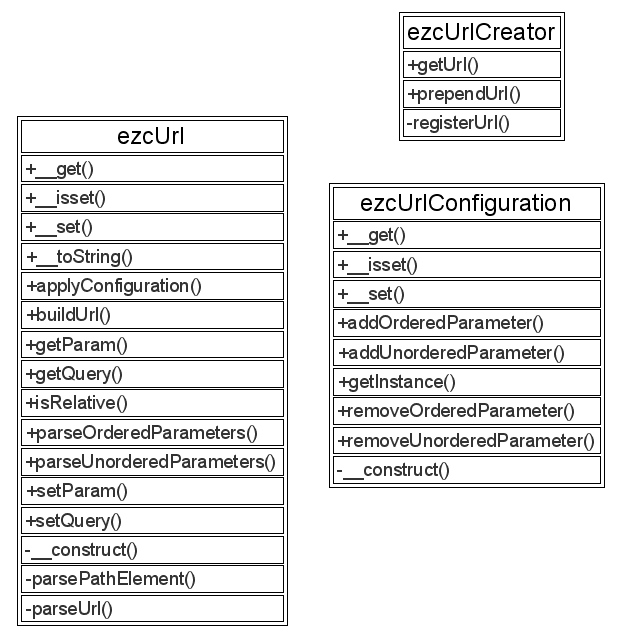
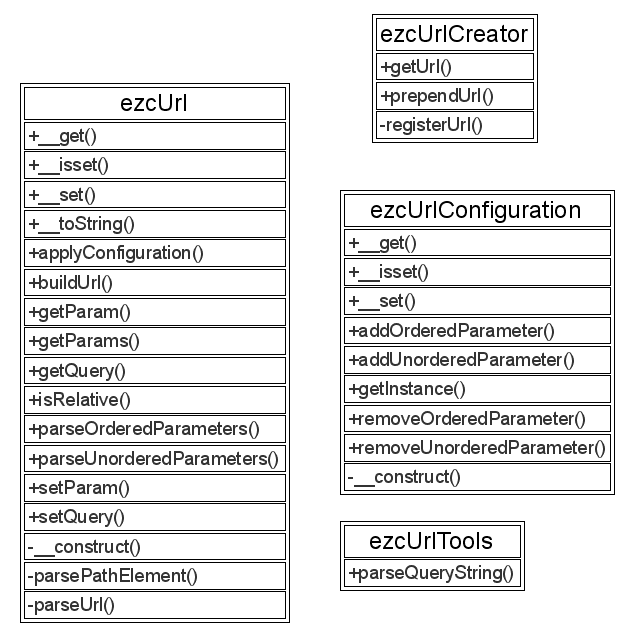
- Fixed issue #11277: The dots in the query string parameter names are not   converted to underscores.
git-svn-id: http://svn.ez.no/svn/ezcomponents/trunk@5939 bc0e7bdc-f0fc-0310-8ff6-f601c06e1256

diff --git a/Url/tests/url_tools_test.php b/Url/tests/url_tools_test.php
@@ -1,0 +1,182 @@
+<?php
+/**
+ * @copyright Copyright (C) 2005-2007 eZ systems as. All rights reserved.
+ * @license http://ez.no/licenses/new_bsd New BSD License
+ * @version //autogentag//
+ * @filesource
+ * @package Url
+ * @subpackage Tests
+ */
+
+/**
+ * @package Url
+ * @subpackage Tests
+ */
+class ezcUrlToolsTest extends ezcTestCase
+{
+    protected static $queriesParseStr = array( // original URL, parse result, http_build_query() result
+
+        array( '',                              array(),                                                     '' ),
+        array( 'foo',                           array( 'foo'    => null ),                                    'foo=' ),
+
+        array( 'foo=bar',                       array( 'foo'    => 'bar' ),                                   'foo=bar' ),
+        array( 'foo[]=bar',                     array( 'foo'    => array( 'bar' ) ),                          'foo[0]=bar' ),
+        array( 'foo[][]=bar',                   array( 'foo'    => array( array( 'bar' ) ) ),                 'foo[0][0]=bar' ),
+        array( 'foo[][][]=bar',                 array( 'foo'    => array( array( array( 'bar' ) ) ) ),        'foo[0][0][0]=bar' ),
+
+        array( 'foo[][]=bar&foo=baz',           array( 'foo'    => 'baz' ),                                   'foo=baz' ),
+        array( 'foo[][]=bar&foo[]=baz',         array( 'foo'    => array( array( 'bar' ), 'baz' ) ),          'foo[0][0]=bar&foo[1]=baz' ),
+        array( 'foo[]=bar&foo[][]=baz',         array( 'foo'    => array( 'bar', array( 'baz' ) ) ),          'foo[0]=bar&foo[1][0]=baz' ),
+        array( 'foo[][]=bar&foo[][]=baz',       array( 'foo'    => array( array( 'bar' ), array( 'baz' ) ) ), 'foo[0][0]=bar&foo[1][0]=baz' ),
+        array( 'foo=bar&answer=42',             array( 'foo'    => 'bar', 'answer' => '42' ),                 'foo=bar&answer=42' ),
+        array( 'foo[]=bar&answer=42',           array( 'foo'    => array( 'bar' ), 'answer' => '42' ),        'foo[0]=bar&answer=42' ),
+        array( 'foo[]=bar&answer=42&foo[]=baz', array( 'foo'    => array( 'bar', 'baz' ), 'answer' => '42' ), 'foo[0]=bar&foo[1]=baz&answer=42' ),
+
+        array( 'foo=bar&amp;answer=42',         array( 'foo'    => 'bar', 'amp;answer' => '42' ),             'foo=bar&amp;answer=42' ),
+
+        array( 'foo[0]=bar',                    array( 'foo'    => array( 'bar' ) ),                          'foo[0]=bar' ),
+        array( 'foo[1]=bar',                    array( 'foo'    => array( 1 => 'bar' ) ),                     'foo[1]=bar' ),
+        array( 'foo[0]=bar&foo[0]=baz',         array( 'foo'    => array( 'baz' ) ),                          'foo[0]=baz' ),
+        array( 'foo[0][0]=bar&foo[0]=baz',      array( 'foo'    => array( 'baz' ) ),                          'foo[0]=baz' ),
+
+        array( 'foo=ba+r',                      array( 'foo'    => 'ba r' ),                                  'foo=ba r' ),
+        array( 'foo=ba%20r',                    array( 'foo'    => 'ba r' ),                                  'foo=ba r' ),
+        array( 'foo=ba r',                      array( 'foo'    => 'ba r' ),                                  'foo=ba r' ),
+        array( 'foo=ba.r',                      array( 'foo'    => 'ba.r' ),                                  'foo=ba.r' ),
+
+        array( 'fo.o=bar',                      array( 'fo_o'   => 'bar' ),                                   'fo_o=bar' ),
+        array( 'fo.o[]=bar',                    array( 'fo_o'   => array( 'bar' ) ),                          'fo_o[0]=bar' ),
+        array( 'fo:o=bar',                      array( 'fo:o'   => 'bar' ),                                   'fo:o=bar' ),
+        array( 'fo;o=bar',                      array( 'fo;o'   => 'bar' ),                                   'fo;o=bar' ),
+        array( 'foo()=bar',                     array( 'foo()'  => 'bar' ),                                   'foo()=bar' ),
+        array( 'foo{}=bar',                     array( 'foo{}'  => 'bar' ),                                   'foo{}=bar' ),
+
+        array( 'fo.o=bar&answer=42',            array( 'fo_o'   => 'bar', 'answer' => 42 ),                   'fo_o=bar&answer=42' ),
+
+        array( 'foo[=bar',                      array( 'foo_'   => 'bar' ),                                   'foo_=bar' ),
+        array( 'foo[[=bar',                     array( 'foo_['  => 'bar' ),                                   'foo_[=bar' ),
+        array( 'foo]=bar',                      array( 'foo]'   => 'bar' ),                                   'foo]=bar' ),
+        array( 'foo]]=bar',                     array( 'foo]]'  => 'bar' ),                                   'foo]]=bar' ),
+        array( 'foo][=bar',                     array( 'foo]_'  => 'bar' ),                                   'foo]_=bar' ),
+        array( 'foo[[]=bar',                    array( 'foo'    => array( '[' => 'bar' ) ),                   'foo[[]=bar' ),
+        array( 'foo][]=bar',                    array( 'foo]'   => array( 'bar' ) ),                          'foo][0]=bar' ),
+        array( 'foo[][=bar',                    array( 'foo'    => array( 'bar' ) ),                          'foo[0]=bar' ),
+        array( 'foo[]]=bar',                    array( 'foo'    => array( 'bar' ) ),                          'foo[0]=bar' ),
+        array( 'foo][[=bar',                    array( 'foo]_[' => 'bar' ),                                   'foo]_[=bar' ),
+
+        array( 'fo[o=bar',                      array( 'fo_o'   => 'bar' ),                                   'fo_o=bar' ),
+        array( 'fo[[o=bar',                     array( 'fo_[o'  => 'bar' ),                                   'fo_[o=bar' ),
+        array( 'fo]o=bar',                      array( 'fo]o'   => 'bar' ),                                   'fo]o=bar' ),
+        array( 'fo]]o=bar',                     array( 'fo]]o'  => 'bar' ),                                   'fo]]o=bar' ),
+        array( 'fo][o=bar',                     array( 'fo]_o'  => 'bar' ),                                   'fo]_o=bar' ),
+        array( 'foo[[]o=bar',                   array( 'foo'    => array( '[' => 'bar' ) ),                   'foo[[]=bar' ),
+        array( 'foo][]o=bar',                   array( 'foo]'   => array( 'bar' ) ),                          'foo][0]=bar' ),
+        array( 'foo[][o=bar',                   array( 'foo'    => array( 'bar' ) ),                          'foo[0]=bar' ),
+        array( 'foo[]]o=bar',                   array( 'foo'    => array( 'bar' ) ),                          'foo[0]=bar' ),
+        array( 'fo[]o=bar',                     array( 'fo'     => array( 'bar' ) ),                          'fo[0]=bar' ),
+        array( 'fo][[o=bar',                    array( 'fo]_[o' => 'bar' ),                                   'fo]_[o=bar' ),
+
+        array( 'foo[[0]o=bar',                  array( 'foo'    => array( '[0' => 'bar' ) ),                  'foo[[0]=bar' ),
+        array( 'foo][0]o=bar',                  array( 'foo]'   => array( 'bar' ) ),                          'foo][0]=bar' ),
+        array( 'foo[0][o=bar',                  array( 'foo'    => array( 'bar' ) ),                          'foo[0]=bar' ),
+        array( 'foo[0]]o=bar',                  array( 'foo'    => array( 'bar' ) ),                          'foo[0]=bar' ),
+        array( 'fo[0]o=bar',                    array( 'fo'     => array( 'bar' ) ),                          'fo[0]=bar' ),
+        );
+
+    protected static $queriesParseQueryString = array( // original URL, parse result, http_build_query() result
+
+        array( '',                              array(),                                                     '' ),
+        array( 'foo',                           array( 'foo'    => null ),                                    'foo=' ),
+
+        array( 'foo=bar',                       array( 'foo'    => 'bar' ),                                   'foo=bar' ),
+        array( 'foo[]=bar',                     array( 'foo'    => array( 'bar' ) ),                          'foo[0]=bar' ),
+        array( 'foo[][]=bar',                   array( 'foo'    => array( array( 'bar' ) ) ),                 'foo[0][0]=bar' ),
+        array( 'foo[][][]=bar',                 array( 'foo'    => array( array( array( 'bar' ) ) ) ),        'foo[0][0][0]=bar' ),
+
+        array( 'foo[][]=bar&foo=baz',           array( 'foo'    => 'baz' ),                                   'foo=baz' ),
+        array( 'foo[][]=bar&foo[]=baz',         array( 'foo'    => array( array( 'bar' ), 'baz' ) ),          'foo[0][0]=bar&foo[1]=baz' ),
+        array( 'foo[]=bar&foo[][]=baz',         array( 'foo'    => array( 'bar', array( 'baz' ) ) ),          'foo[0]=bar&foo[1][0]=baz' ),
+        array( 'foo[][]=bar&foo[][]=baz',       array( 'foo'    => array( array( 'bar' ), array( 'baz' ) ) ), 'foo[0][0]=bar&foo[1][0]=baz' ),
+        array( 'foo=bar&answer=42',             array( 'foo'    => 'bar', 'answer' => '42' ),                 'foo=bar&answer=42' ),
+        array( 'foo[]=bar&answer=42',           array( 'foo'    => array( 'bar' ), 'answer' => '42' ),        'foo[0]=bar&answer=42' ),
+        array( 'foo[]=bar&answer=42&foo[]=baz', array( 'foo'    => array( 'bar', 'baz' ), 'answer' => '42' ), 'foo[0]=bar&foo[1]=baz&answer=42' ),
+
+        array( 'foo=bar&amp;answer=42',         array( 'foo'    => 'bar', 'amp;answer' => '42' ),             'foo=bar&amp;answer=42' ),
+
+        array( 'foo[0]=bar',                    array( 'foo'    => array( 'bar' ) ),                          'foo[0]=bar' ),
+        array( 'foo[1]=bar',                    array( 'foo'    => array( 1 => 'bar' ) ),                     'foo[1]=bar' ),
+        array( 'foo[0]=bar&foo[0]=baz',         array( 'foo'    => array( 'baz' ) ),                          'foo[0]=baz' ),
+        array( 'foo[0][0]=bar&foo[0]=baz',      array( 'foo'    => array( 'baz' ) ),                          'foo[0]=baz' ),
+
+        array( 'foo=ba+r',                      array( 'foo'    => 'ba r' ),                                  'foo=ba r' ),
+        array( 'foo=ba%20r',                    array( 'foo'    => 'ba r' ),                                  'foo=ba r' ),
+        array( 'foo=ba r',                      array( 'foo'    => 'ba r' ),                                  'foo=ba r' ),
+        array( 'foo=ba.r',                      array( 'foo'    => 'ba.r' ),                                  'foo=ba.r' ),
+
+        array( 'fo.o=bar',                      array( 'fo.o'   => 'bar' ),                                   'fo.o=bar' ),
+        array( 'fo.o[]=bar',                    array( 'fo.o'   => array( 'bar' ) ),                          'fo.o[0]=bar' ),
+        array( 'fo:o=bar',                      array( 'fo:o'   => 'bar' ),                                   'fo:o=bar' ),
+        array( 'fo;o=bar',                      array( 'fo;o'   => 'bar' ),                                   'fo;o=bar' ),
+        array( 'foo()=bar',                     array( 'foo()'  => 'bar' ),                                   'foo()=bar' ),
+        array( 'foo{}=bar',                     array( 'foo{}'  => 'bar' ),                                   'foo{}=bar' ),
+
+        array( 'fo.o=bar&answer=42',            array( 'fo.o'   => 'bar', 'answer' => 42 ),                   'fo.o=bar&answer=42' ),
+
+        array( 'foo[=bar',                      array( 'foo_'   => 'bar' ),                                   'foo_=bar' ),
+        array( 'foo[[=bar',                     array( 'foo_['  => 'bar' ),                                   'foo_[=bar' ),
+        array( 'foo]=bar',                      array( 'foo]'   => 'bar' ),                                   'foo]=bar' ),
+        array( 'foo]]=bar',                     array( 'foo]]'  => 'bar' ),                                   'foo]]=bar' ),
+        array( 'foo][=bar',                     array( 'foo]_'  => 'bar' ),                                   'foo]_=bar' ),
+        array( 'foo[[]=bar',                    array( 'foo'    => array( '[' => 'bar' ) ),                   'foo[[]=bar' ),
+        array( 'foo][]=bar',                    array( 'foo]'   => array( 'bar' ) ),                          'foo][0]=bar' ),
+        array( 'foo[][=bar',                    array( 'foo'    => array( 'bar' ) ),                          'foo[0]=bar' ),
+        array( 'foo[]]=bar',                    array( 'foo'    => array( 'bar' ) ),                          'foo[0]=bar' ),
+        array( 'foo][[=bar',                    array( 'foo]_[' => 'bar' ),                                   'foo]_[=bar' ),
+
+        array( 'fo[o=bar',                      array( 'fo_o'   => 'bar' ),                                   'fo_o=bar' ),
+        array( 'fo[[o=bar',                     array( 'fo_[o'  => 'bar' ),                                   'fo_[o=bar' ),
+        array( 'fo]o=bar',                      array( 'fo]o'   => 'bar' ),                                   'fo]o=bar' ),
+        array( 'fo]]o=bar',                     array( 'fo]]o'  => 'bar' ),                                   'fo]]o=bar' ),
+        array( 'fo][o=bar',                     array( 'fo]_o'  => 'bar' ),                                   'fo]_o=bar' ),
+        array( 'foo[[]o=bar',                   array( 'foo'    => array( '[' => 'bar' ) ),                   'foo[[]=bar' ),
+        array( 'foo][]o=bar',                   array( 'foo]'   => array( 'bar' ) ),                          'foo][0]=bar' ),
+        array( 'foo[][o=bar',                   array( 'foo'    => array( 'bar' ) ),                          'foo[0]=bar' ),
+        array( 'foo[]]o=bar',                   array( 'foo'    => array( 'bar' ) ),                          'foo[0]=bar' ),
+        array( 'fo[]o=bar',                     array( 'fo'     => array( 'bar' ) ),                          'fo[0]=bar' ),
+        array( 'fo][[o=bar',                    array( 'fo]_[o' => 'bar' ),                                   'fo]_[o=bar' ),
+
+        array( 'foo[[0]o=bar',                  array( 'foo'    => array( '[0' => 'bar' ) ),                  'foo[[0]=bar' ),
+        array( 'foo][0]o=bar',                  array( 'foo]'   => array( 'bar' ) ),                          'foo][0]=bar' ),
+        array( 'foo[0][o=bar',                  array( 'foo'    => array( 'bar' ) ),                          'foo[0]=bar' ),
+        array( 'foo[0]]o=bar',                  array( 'foo'    => array( 'bar' ) ),                          'foo[0]=bar' ),
+        array( 'fo[0]o=bar',                    array( 'fo'     => array( 'bar' ) ),                          'fo[0]=bar' ),
+        );
+
+    public static function suite()
+    {
+        return new PHPUnit_Framework_TestSuite( __CLASS__ );
+    }
+
+    public function testParseStr()
+    {
+        foreach ( self::$queriesParseStr as $query )
+        {
+            parse_str( $query[0], $params );
+
+            $this->assertEquals( $query[1], $params, "Failed parsing '{$query[0]}'" );
+            $this->assertEquals( $query[2], urldecode( http_build_query( $params ) ), "Failed building back the query '{$query[0]}' to '{$query[2]}'" );
+        }
+    }
+
+    public function testParseQueryString()
+    {
+        foreach ( self::$queriesParseQueryString as $query )
+        {
+            $params = ezcUrlTools::parseQueryString( $query[0] );
+
+            $this->assertEquals( $query[1], $params, "Failed parsing '{$query[0]}'" );
+            $this->assertEquals( $query[2], urldecode( http_build_query( $params ) ), "Failed building back the query '{$query[0]}' to '{$query[2]}'" );
+        }
+    }
+}
+?>

diff --git a/Url/src/url_tools.php b/Url/src/url_tools.php
@@ -1,0 +1,102 @@
+<?php
+/**
+ * File containing the ezcUrlTools class.
+ *
+ * @copyright Copyright (C) 2005-2007 eZ systems as. All rights reserved.
+ * @license http://ez.no/licenses/new_bsd New BSD License
+ * @version //autogen//
+ * @filesource
+ * @package Url
+ */
+
+/**
+ * Class providing methods for URL parsing.
+ *
+ * @package Url
+ * @version //autogen//
+ */
+class ezcUrlTools
+{
+    /**
+     * Parses the provided string and returns an associative array structure.
+     *
+     * It implements the functionality of the PHP function parse_str(), but
+     * without converting dots to underscores in parameter names.
+     *
+     * Example:
+     * <code>
+     * $str = 'foo[]=bar&openid.nonce=123456';
+     *
+     * parse_str( $str, $params );
+     * $params = ezcUrlTools::parseQuery( $str );
+     * </code>
+     *
+     * In the first case (parse_str()), $params will be:
+     * <code>
+     * array( 'foo' => array( 'bar' ), 'openid_nonce' => '123456' );
+     * </code>
+     *
+     * In the second case (ezcUrlTools::parseQueryString()), $params will be:
+     * <code>
+     * array( 'foo' => array( 'bar' ), 'openid.nonce' => '123456' );
+     * </code>
+     *
+     * @param array(string=>mixed) $str The string to parse
+     * @return array(string=>mixed)
+     */
+    public static function parseQueryString( $str )
+    {
+        $result = array();
+
+        // $params will be returned, but first we have to ensure that the dots
+        // are not converted to underscores
+        parse_str( $str, $params );
+
+        $separator = ini_get( 'arg_separator.input' );
+        if ( empty( $separator ) )
+        {
+            $separator = '&';
+        }
+
+        // go through $params and ensure that the dots are not converted to underscores
+        $args = explode( $separator, $str );
+        foreach ( $args as $arg )
+        {
+            $parts = explode( '=', $arg, 2 );
+            if ( !isset( $parts[1] ) )
+            {
+                $parts[1] = null;
+            }
+
+            if ( substr_count( $parts[0], '[' ) === 0 )
+            {
+                $key = $parts[0];
+            }
+            else
+            {
+                $key = substr( $parts[0], 0, strpos( $parts[0], '[' ) );
+            }
+
+            $paramKey = str_replace( '.', '_', $key );
+            if ( isset( $params[$paramKey] ) && strpos( $paramKey, '_' ) !== false )
+            {
+                $newKey = '';
+                for ( $i = 0; $i < strlen( $paramKey ); $i++ )
+                {
+                    $newKey .= ( $paramKey{$i} === '_' && $key{$i} === '.' ) ? '.' : $paramKey{$i};
+                }
+
+                $keys = array_keys( $params );
+                if ( ( $pos = array_search( $paramKey, $keys ) ) !== false )
+                {
+                    $keys[$pos] = $newKey;
+                }
+                $values = array_values( $params );
+                $params = array_combine( $keys, $values );
+            }
+        }
+
+        return $params;
+    }
+}
+?>

diff --git a/Url/tests/suite.php b/Url/tests/suite.php
@@ -14,6 +14,7 @@
 require_once( "url_test.php" );
 require_once( "url_configuration_test.php" );
 require_once( "url_creator_test.php" );
+require_once( "url_tools_test.php" );
 
 /**
  * @package Url
@@ -24,11 +25,12 @@ class ezcUrlSuite extends PHPUnit_Framework_TestSuite
     public function __construct()
     {
         parent::__construct();
-        $this->setName("Url");
+        $this->setName( "Url" );
 
         $this->addTest( ezcUrlTest::suite() );
         $this->addTest( ezcUrlConfigurationTest::suite() );
         $this->addTest( ezcUrlCreatorTest::suite() );
+        $this->addTest( ezcUrlToolsTest::suite() );
     }
 
     public static function suite()

diff --git a/Url/tests/url_test.php b/Url/tests/url_test.php
@@ -99,6 +99,10 @@ class ezcUrlTest extends ezcTestCase
         $urlStrings[] = 'http://user:password@www.example.com:82/mydir/index.php/other/stuff#cat';
         $urlStrings[] = 'http://user:password@www.example.com:82/mydir/index.php/other/stuff?me=you&arr[0]=yes&arr[1]=no#cat';
 
+        // the dot would have been converted to underscore if using parse_str() to
+        // parse the query part. ezcUrlTools::parseQueryString() is used instead
+        $urlStrings[] = 'http://www.example.com/stuff?openid.nonce=123456';
+        
         foreach ( $urlStrings as $urlString )
         {
             $url = new ezcUrl( $urlString );

diff --git a/Url/src/url.php b/Url/src/url.php
@@ -271,7 +271,7 @@ class ezcUrl
 
         if ( isset( $urlArray['query'] ) )
         {
-            parse_str( $urlArray['query'] , $this->properties['query'] );
+            $this->properties['query'] = ezcUrlTools::parseQueryString( $urlArray['query'] );
         }
         else
         {

diff --git a/Url/src/url_autoload.php b/Url/src/url_autoload.php
@@ -17,5 +17,6 @@ return array(
     'ezcUrl'                          => 'Url/url.php',
     'ezcUrlConfiguration'             => 'Url/url_configuration.php',
     'ezcUrlCreator'                   => 'Url/url_creator.php',
+    'ezcUrlTools'                     => 'Url/url_tools.php',
 );
 ?>
